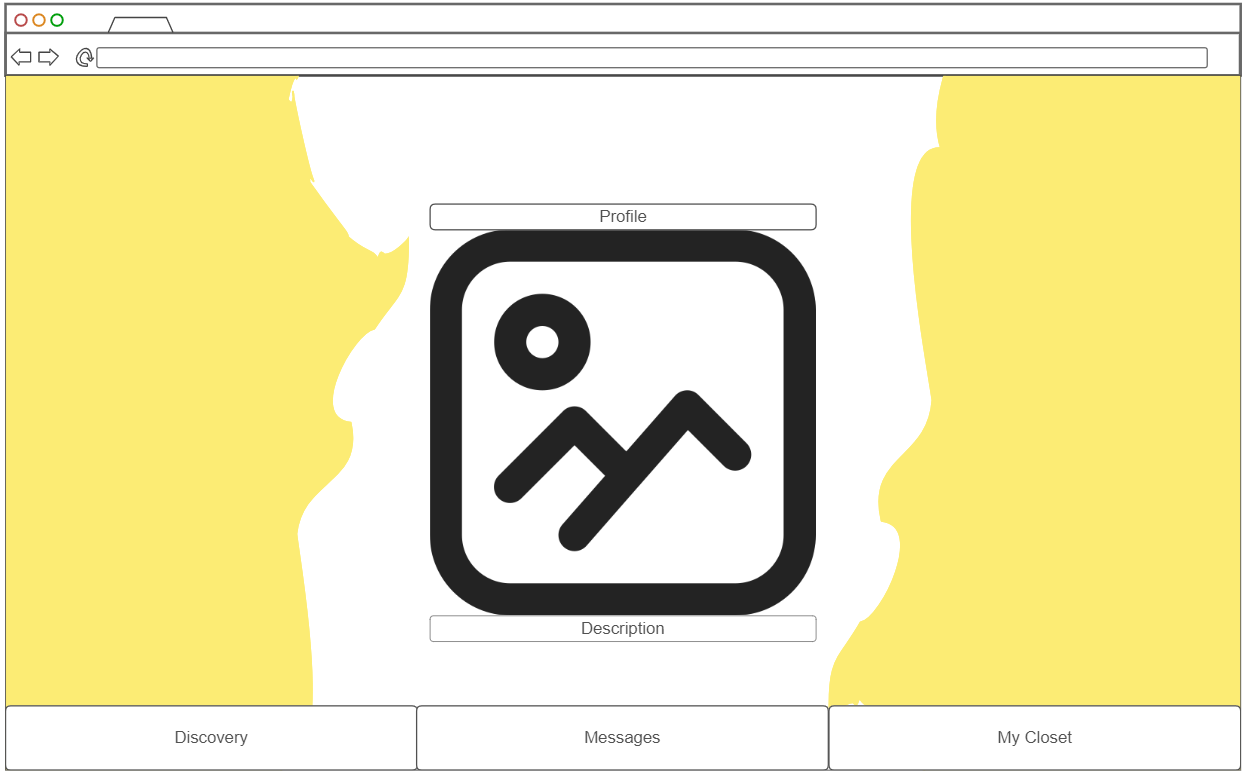
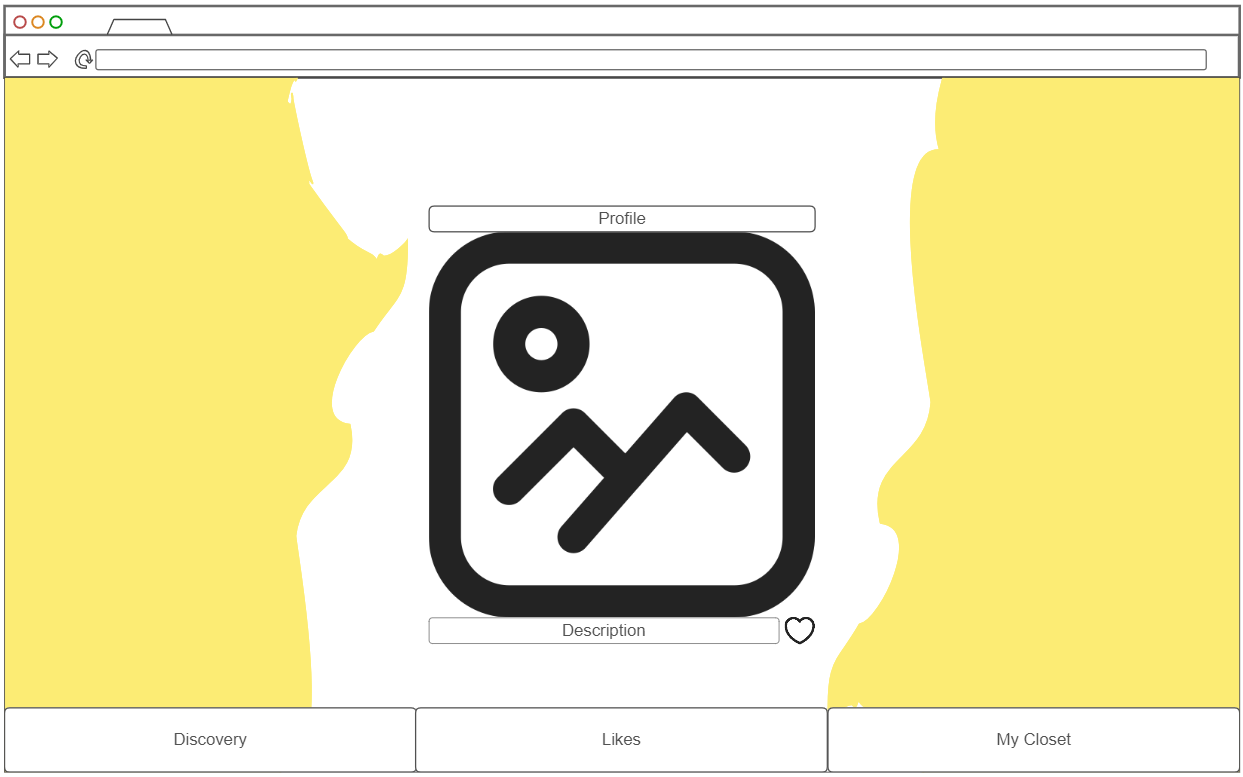
startup README.md finished

diff --git a/README.md b/README.md
@@ -29,15 +29,17 @@ Zufas connects you with people while helping you to better your wardrobe for FRE
 
 ![my-Closet](images/myCloset.png)
 
+![likes](images/likes.png)
+
 ## Usage of Technologies
 
-- **HTML** - Uses four HTML pages total in correct code structures. One will be used to login, one will be used for the home/discovery page, one for direct messages, and the last will be for their profile.
+- **HTML** - Uses four HTML pages total in correct code structures. One will be used to login, one will be used for the home/discovery page, one for likes, and the last will be for their profile.
 - **CSS** - Application styling that works visually on different screen sizes. Variety of color and transitions.
 - **React** - Build dynamic interfaces with a component-based approach. Will use react state management features.
 - **Service** - Backend service using the following endpoints:
   - Login endpoint
   - Posts endpoint
-  - Messages endpoint
+  - likes endpoint
   - Profile endpoint
 - **DB/Login** - Store old and new users and photos in the database. Credentials securely stored in database. No access to anything unless authenticated.
 - **WebSocket** - Enable real-time communication
@@ -49,18 +51,18 @@ For this deliverable, I built out the structure of my application using HTML.
 - **HTML Pages**: Four HTML pages:
   - **Login Page**: Contains forms for user login.
   - **Discovery Home Page**: Displays a list of posts from all users.
-  - **Messages Page**: Includes chat interface for sending and receiving messages.
+  - **likes Page**: Includes chat interface for sending and receiving likes.
   - **Profile Page**: Shows the user's uploaded pictures and profile information.
 
 - **Links**:
   - **Login Page**: Links to the Discovery Home Page after successful login.
-  - **Discovery Home Page**: Links to individual user profiles and the Messages Page.
-  - **Messages Page**: Links back to the Discovery Home Page and the Profile Page.
-  - **Profile Page**: Links to the Discovery Home Page and Messages Page.
+  - **Discovery Home Page**: Links to individual user profiles and the likes Page.
+  - **likes Page**: Links back to the Discovery Home Page and the Profile Page.
+  - **Profile Page**: Links to the Discovery Home Page and likes Page.
 
 - **Text**:
   - **Discovery Home Page**: Describes each post, including titles and content.
-  - **Messages Page**: Displays conversation text and message timestamps.
+  - **likes Page**: Displays conversation text and like timestamps.
   - **Profile Page**: Includes text descriptions of user-uploaded images and profile information.
 
 - **Images**:
@@ -72,7 +74,7 @@ For this deliverable, I built out the structure of my application using HTML.
   - **Discovery Home Page**: Displays posts pulled from the database.
 
 - **WebSocket**:
-  - **Messages Page**: Real-time updates for incoming and outgoing messages.
+  - **likes Page**: Real-time updates for incoming and outgoing likes.
 
 ## Using CSS
 
@@ -102,13 +104,13 @@ For this deliverable, I properly styled the application into its final appearanc
 For this deliverable, I implemented the application logic and dynamic features using JavaScript.
 
 - **Event Handling**:
-  - Implemented JavaScript functions to handle user interactions such as form submissions, button clicks, and message sending.
+  - Implemented JavaScript functions to handle user interactions such as form submissions, button clicks, and like sending.
 
 - **Dynamic Content**:
-  - Used JavaScript to dynamically update content based on user actions, such as displaying posts or messages.
+  - Used JavaScript to dynamically update content based on user actions, such as displaying posts or likes.
 
 - **API Integration**:
-  - Incorporated `fetch` API calls to the backend services for login, fetching posts, sending messages, and retrieving user profiles.
+  - Incorporated `fetch` API calls to the backend services for login, fetching posts, sending likes, and retrieving user profiles.
 
 - **Real-Time Updates**:
   - Implemented polling or other techniques to handle real-time updates where WebSocket is not yet integrated.
@@ -120,11 +122,11 @@ For this deliverable, I used React to build dynamic user interfaces and manage a
 - **Components**:
   - **Login Component**: Handles user authentication.
   - **Discovery Component**: Displays a list of posts with links to user profiles.
-  - **Messages Component**: Manages the chat interface.
+  - **likes Component**: Manages the chat interface.
   - **Profile Component**: Shows user’s uploaded images and profile information.
 
 - **Router**:
-  - Use React Router for navigation between the Login Page, Discovery Home Page, Messages Page, and Profile Page.
+  - Use React Router for navigation between the Login Page, Discovery Home Page, likes Page, and Profile Page.
 
 ## Using Backend Service
 
@@ -133,7 +135,7 @@ For this deliverable, the backend services support application functionality.
 - **Endpoints**:
   - **Login Endpoint**: Authenticates users and manages sessions.
   - **Posts Endpoint**: Retrieves and manages posts.
-  - **Messages Endpoint**: Handles sending and receiving messages.
+  - **likes Endpoint**: Handles sending and receiving likes.
   - **Profile Endpoint**: Manages user profile information and uploaded pictures.
 
 - **API Integration**:
@@ -163,10 +165,10 @@ For this deliverable, I set up the database and managed user authentication.
 For this deliverable, I implemented real-time communication using WebSocket.
 
 - **WebSocket Connection**:
-  - **Backend**: Set up WebSocket server to handle connections and broadcast messages.
+  - **Backend**: Set up WebSocket server to handle connections and broadcast likes.
   - **Frontend**: Integrated WebSocket client to receive real-time updates.
 
 - **Real-Time Updates**:
-  - **Messages Page**: Updated chat interface in real-time with new messages.
+  - **likes Page**: Updated chat interface in real-time with new likes.
   - **Discovery Home Page**: Potentially implemented real-time updates for new posts if applicable.
 
